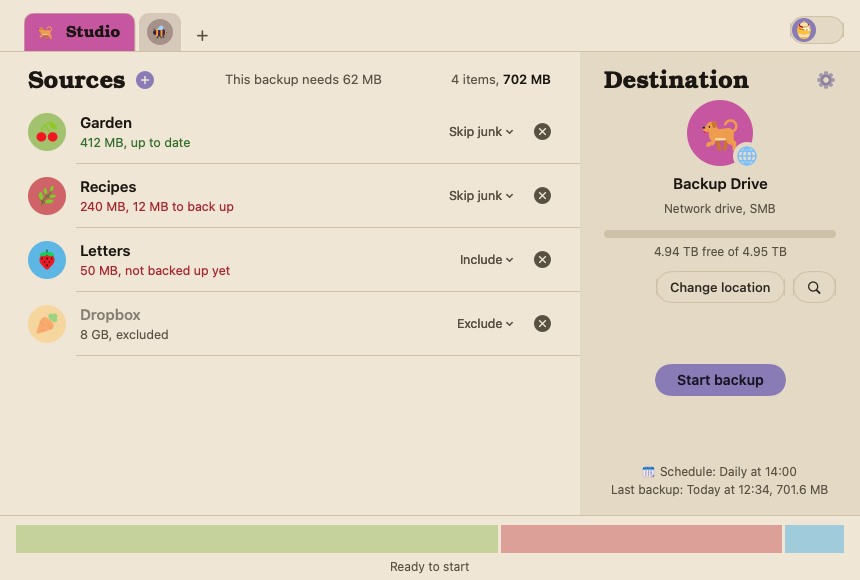
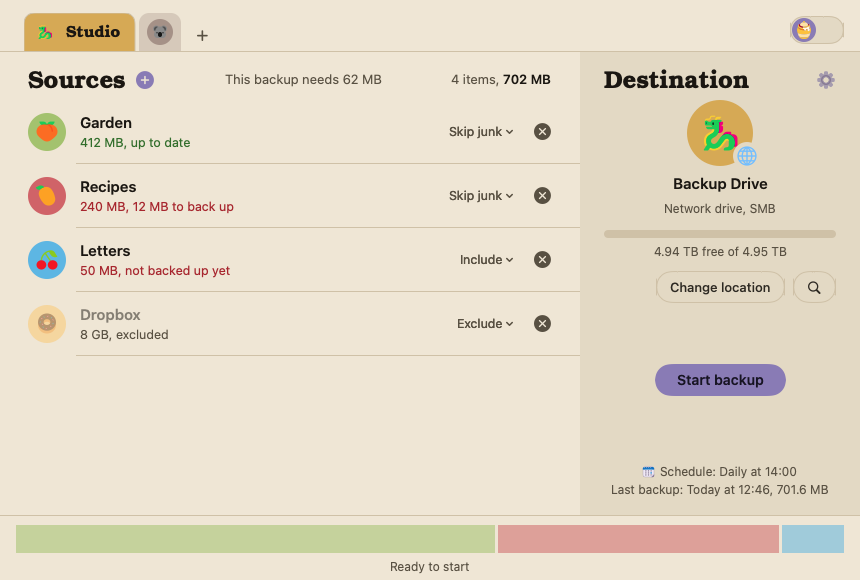
Archivist 0.0.19 — Opens at the compact size and remembers your height; more balanced colours; tidier settings.

diff --git a/Archivist/JobView.swift b/Archivist/JobView.swift
@@ -587,13 +587,17 @@ struct BottomBar: View {
             let estimating = r.running && !r.finishing && r.remaining(at: tl.date) == nil
             GeometryReader { g in
                 let w = g.size.width - Double(3 * max(chunks.count - 1, 0))
+                // Each chunk at least 4 pt, the rest shared by size: the chunks add up to the bar exactly
+                // (a 4 pt floor on top of the shares overflowed the bar and clipped its right end).
+                let floorW = 4.0, spare = max(0, w - floorW * Double(chunks.count))
+                let widths = Dictionary(uniqueKeysWithValues: chunks.map { ($0.s.id, floorW + spare * Double($0.b) / Double(total)) })
                 VStack(alignment: .leading, spacing: 0) {
                     ZStack(alignment: .leading) {
                         if chunks.isEmpty { Rectangle().fill(Palette.rule) }
                         HStack(spacing: 3) {
                             ForEach(chunks, id: \.s.id) { c in
                                 Rectangle().fill(scheme == .dark ? Nippon.color(c.s.color).opacity(0.18) : Nippon.soft(c.s.color, white: 0.25).opacity(0.5))
-                                    .frame(width: max(4, w * Double(c.b) / Double(total)))
+                                    .frame(width: widths[c.s.id] ?? 4)
                             }
                         }
                         if r.running && !estimating {
@@ -601,7 +605,7 @@ struct BottomBar: View {
                                 ForEach(chunks, id: \.s.id) { c in
                                     // Dark: the soft colours of the circles; full strength glared on a dark track.
                                     Rectangle().fill(scheme == .dark ? Nippon.soft(c.s.color, white: 0.3) : Nippon.color(c.s.color))
-                                        .frame(width: max(4, w * Double(c.b) / Double(total)))
+                                        .frame(width: widths[c.s.id] ?? 4)
                                 }
                             }
                             .mask(alignment: .leading) {
@@ -616,7 +620,7 @@ struct BottomBar: View {
                                 ForEach(chunks, id: \.s.id) { c in
                                     Rectangle().fill(scheme == .light ? Nippon.color(c.s.color).opacity(0.35 + 0.45 * breath)
                                                                       : Nippon.soft(c.s.color, white: 0.3).opacity(0.25 + 0.3 * breath))
-                                        .frame(width: max(4, w * Double(c.b) / Double(total)))
+                                        .frame(width: widths[c.s.id] ?? 4)
                                 }
                             }
                             .animation(.easeInOut(duration: 0.5), value: breath)
@@ -829,13 +833,19 @@ struct SettingsSheet: View {
                             Toggle("Keep earlier versions", isOn: Binding(get: { job.keepChanged }, set: { v in view.edit { $0.keepChanged = v } }))
                             HStack(spacing: 8) {
                                 Text("Remove after").foregroundStyle(Palette.soft)
-                                Picker("", selection: Binding(get: { job.keepDays ?? 0 }, set: { v in view.edit { $0.keepDays = v == 0 ? nil : v } })) {
-                                    Text("30 days").tag(30); Text("90 days").tag(90); Text("1 year").tag(365); Text("Never").tag(0)
-                                }.labelsHidden().fixedSize()
+                                // A plain menu sized to its words (the system picker kept room for the widest).
+                                Menu {
+                                    ForEach([(30, "30 days"), (90, "90 days"), (365, "1 year"), (0, "Never")], id: \.0) { days, words in
+                                        Button(words) { view.edit { $0.keepDays = days == 0 ? nil : days } }
+                                    }
+                                } label: {
+                                    Text([30: "30 days", 90: "90 days", 365: "1 year"][job.keepDays ?? 0] ?? "Never")
+                                }
+                                .menuStyle(.button).fixedSize()
                             }
                             Toggle(isOn: Binding(get: { job.makeRoom }, set: { v in view.edit { $0.makeRoom = v } })) {
                                 VStack(alignment: .leading, spacing: 1) {
-                                    Text("Make room when drive is full")
+                                    Text("Make room when\ndrive is full")
                                     Text("Oldest first").font(Typeface.text(11.5)).foregroundStyle(Palette.soft)
                                 }
                             }

diff --git a/Archivist/Theme.swift b/Archivist/Theme.swift
@@ -46,22 +46,28 @@ struct Emoji: View {
 /// 24 traditional Japanese (Nippon) colours, in an order where consecutive entries sit far apart, so counting through them never gives neighbours alike.
 enum Nippon {
     static let colors: [(hex: String, name: String)] = [
-        // Deep and clear, one of every hue (Helios, 2026-11-25: fewer pastels, nothing only "cute").
+        // Deep and clear: three each of red, orange, yellow, green, teal, blue, purple, and pink/brown
+        // (Helios, 2026-11-25), ordered so neighbours differ.
         ("#90B44B", "Hiwamoegi"), ("#CB4042", "Akabeni"), ("#2EA9DF", "Tsuyukusa"), ("#FFB11B", "Yamabuki"),
-        ("#77428D", "Edomurasaki"), ("#00896C", "Aotake"), ("#F05E1C", "Ohni"), ("#005CAF", "Ruri"),
-        ("#D19826", "Yamabukicha"), ("#C1328E", "Botan"), ("#1B813E", "Tokiwa"), ("#C1693C", "Kaba"),
-        ("#6A4C9C", "Kikyo"), ("#33A6B8", "Asagi"), ("#9F353A", "Enji"), ("#5DAC81", "Wakatake"),
-        ("#DB4D6D", "Nakabeni"), ("#006284", "Hanada"), ("#F6C555", "Kuchinashi"), ("#947A6D", "Kurumi"),
-        ("#8B81C3", "Fuji"), ("#E83015", "Syojyohi"), ("#51A8DD", "Gunjyo"), ("#D05A6E", "Imayou"),
+        ("#77428D", "Edomurasaki"), ("#00896C", "Aotake"), ("#F05E1C", "Ohni"), ("#DB4D6D", "Nakabeni"),
+        ("#005CAF", "Ruri"), ("#D19826", "Yamabukicha"), ("#268785", "Seiheki"), ("#9F353A", "Enji"),
+        ("#1B813E", "Tokiwa"), ("#C1328E", "Botan"), ("#E98B2A", "Beniukon"), ("#33A6B8", "Asagi"),
+        ("#947A6D", "Kurumi"), ("#006284", "Hanada"), ("#F6C555", "Kuchinashi"), ("#6A4C9C", "Kikyo"),
+        ("#5DAC81", "Wakatake"), ("#C1693C", "Kaba"), ("#E83015", "Syojyohi"), ("#E16B8C", "Kohbai"),
     ]
     /// The 24 pastel-leaning colours before 2026-11-25, in their old order: a saved colour from that
     /// list becomes the new colour in the same place, so every backup and source refreshes.
     static let before = ["#90B44B", "#E83015", "#D19826", "#7B90D2", "#5DAC81", "#986DB2", "#2EA9DF", "#C1693C",
                          "#E03C8A", "#3A8FB7", "#E98B2A", "#D0104C", "#DC9FB4", "#F596AA", "#B481BB", "#A5DEE4",
                          "#81C7D4", "#7DB9DE", "#A8D8B9", "#86C166", "#F7D94C", "#FFB11B", "#FB966E", "#E87A90"]
+    /// The 0.0.16 list, for the same refresh.
+    static let v16 = ["#90B44B", "#CB4042", "#2EA9DF", "#FFB11B", "#77428D", "#00896C", "#F05E1C", "#005CAF",
+                      "#D19826", "#C1328E", "#1B813E", "#C1693C", "#6A4C9C", "#33A6B8", "#9F353A", "#5DAC81",
+                      "#DB4D6D", "#006284", "#F6C555", "#947A6D", "#8B81C3", "#E83015", "#51A8DD", "#D05A6E"]
     static func current(_ hex: String) -> String {
         if colors.contains(where: { $0.hex == hex }) { return hex }
-        return before.firstIndex(of: hex).map { colors[$0].hex } ?? hex
+        if let i = before.firstIndex(of: hex) ?? v16.firstIndex(of: hex) { return colors[i].hex }
+        return hex
     }
 
     /// A solid soft version (the colour mixed with white): the same in light and dark, never

diff --git a/Archivist/Snapshot.swift b/Archivist/Snapshot.swift
@@ -66,7 +66,7 @@ enum Snapshot {
             ("update", window(studio, Runner(), surveys, drives, space: true, update: update)),
         ]
         let sheets: [(String, AnyView, CGSize)] = [
-            ("settings", AnyView(SettingsSheet(view: JobView(storeOverride: store, jobID: studio.id, runnerOverride: Runner(), destinationState: .present, drives: drives, presetSurveys: surveys, space: nil, preset: true))), CGSize(width: 560, height: 760)),
+            ("settings", AnyView(SettingsSheet(view: JobView(storeOverride: store, jobID: studio.id, runnerOverride: Runner(), destinationState: .present, drives: drives, presetSurveys: surveys, space: nil, preset: true))), CGSize(width: 0, height: 760)),
             ("update-sheet", AnyView(UpdateSheet(update: update, current: "0.0.1", onLater: {}, onInstall: {})), CGSize(width: 480, height: 420)),
         ]
         for (name, dark) in [("dark", true), ("light", false)] {
@@ -87,6 +87,11 @@ enum Snapshot {
     }
 
     static func save(_ view: AnyView, size: CGSize, dark: Bool, to path: String, store: JobStore) {
+        var size = size
+        if size.width == 0 {   // its own width, as the window shows it
+            let probe = NSHostingView(rootView: view.environment(store).fixedSize(horizontal: true, vertical: false).frame(height: size.height))
+            size.width = ceil(probe.fittingSize.width)
+        }
         let content = view.environment(store).frame(width: size.width, height: size.height)
             .environment(\.colorScheme, dark ? .dark : .light)
         let host = NSHostingView(rootView: content)

diff --git a/Archivist/ArchivistApp.swift b/Archivist/ArchivistApp.swift
@@ -26,7 +26,7 @@ struct ArchivistApp: App {
                 .frame(width: 860).frame(minHeight: 417)   // width fixed; smallest holds exactly four source rows (measured: the window adds 32 for its title bar)
         }
         .windowStyle(.hiddenTitleBar)
-        .defaultSize(width: 860, height: 580)
+        .defaultSize(width: 860, height: 417)   // opens at the smallest size: four sources; a dragged height is kept (frame autosave)
         .windowResizability(.contentSize)   // the window takes the content's limits: only taller or shorter
     }
 }
@@ -64,7 +64,10 @@ struct RootView: View {
             if store.jobs.isEmpty { store.add() }
             selection = selection ?? store.jobs.first?.id
             DevLog.write("app open: \(store.jobs.count) backups")
-            for w in NSApp.windows { w.backgroundColor = NSColor(Palette.ground) }   // the window's own fill, under everything
+            for w in NSApp.windows where w.contentView != nil {
+                w.backgroundColor = NSColor(Palette.ground)   // the window's own fill, under everything
+                w.setFrameAutosaveName("Archivist main window")   // the height someone drags to is kept across launches
+            }
             Scheduler.sync(store.jobs)   // removes the retired background helper if an older build left one
             #if DEBUG
             DevControl.start(store) { selection = $0 }
